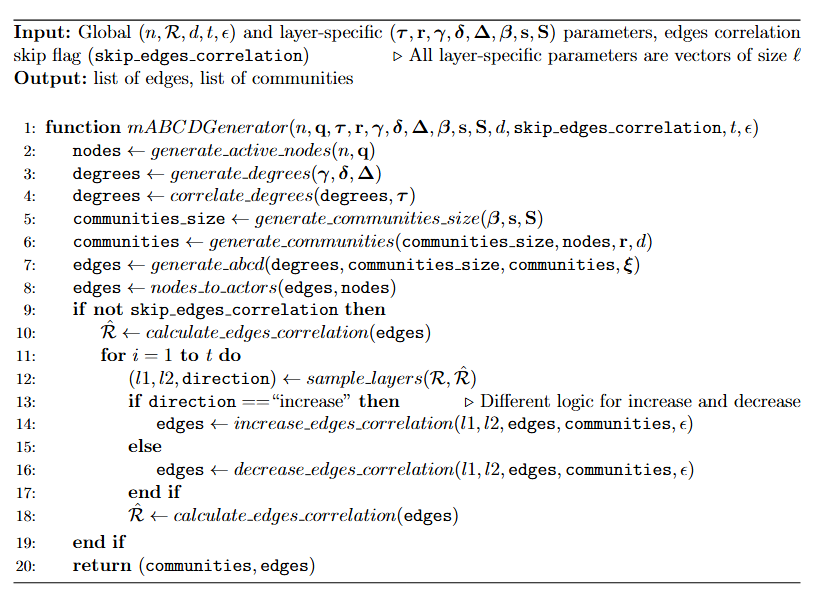
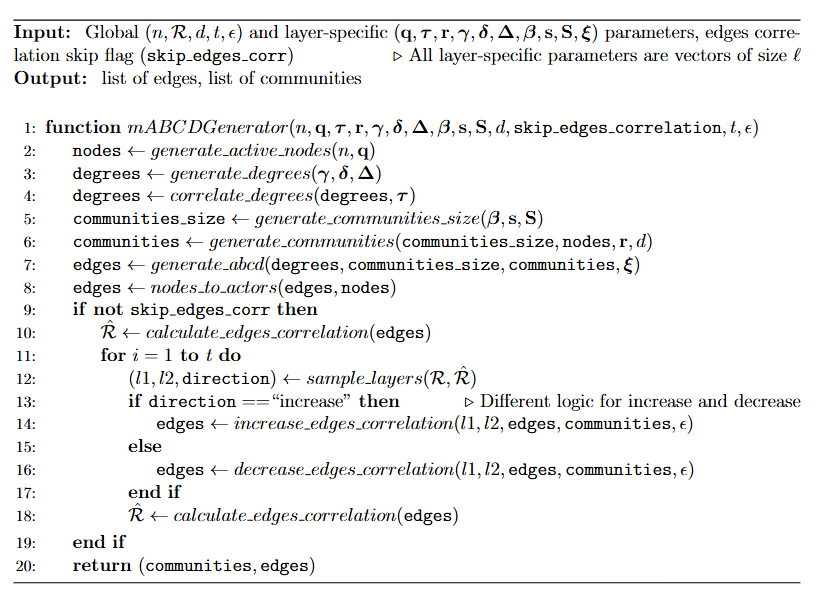
fix: pseudocode

diff --git a/assets/pseudocode.tex b/assets/pseudocode.tex
@@ -9,7 +9,7 @@
 
 \begin{algorithm}
   
-  \textbf{Input:} \ Global ($n,\mathcal{R},d,t,\epsilon$) and layer-specific ($\boldsymbol{\tau},\mathbf{r},\boldsymbol{\gamma},\boldsymbol{\delta},\boldsymbol{\Delta},\boldsymbol{\beta},\mathbf{s},\mathbf{S}$) parameters, edges correlation skip flag ($\texttt{skip\_edges\_correlation}$) \Comment{All layer-specific parameters are vectors of size $\ell$}\\
+  \textbf{Input:} \ Global ($n,\mathcal{R},d,t,\epsilon$) and layer-specific ($\mathbf{q},\boldsymbol{\tau},\mathbf{r},\boldsymbol{\gamma},\boldsymbol{\delta},\boldsymbol{\Delta},\boldsymbol{\beta},\mathbf{s},\mathbf{S},\boldsymbol{\xi}$) parameters, edges correlation skip flag ($\texttt{skip\_edges\_corr}$) \Comment{All layer-specific parameters are vectors of size $\ell$}\\
   \textbf{Output:} \ list of edges, list of communities
   
   \begin{algorithmic}[1]
@@ -24,9 +24,9 @@
         \State $\texttt{communities} \gets generate\_communities(\texttt{communities\_size},\texttt{nodes},\mathbf{r},d)$
         \State $\texttt{edges} \gets generate\_abcd(\texttt{degrees},\texttt{communities\_size},\texttt{communities},\boldsymbol{\xi})$
         \State $\texttt{edges} \gets nodes\_to\_actors(\texttt{edges},\texttt{nodes})$
-        \IfNot{$\texttt{skip\_edges\_correlation}$}
+        \IfNot{$\texttt{skip\_edges\_corr}$}
             \State $\hat{\mathcal{R}} \gets calculate\_edges\_correlation(\texttt{edges})$
-            \For{$i=1 \To t$}
+            \For{$i=1 \textbf{ to } t$}
                 \State $(l1,l2, \texttt{direction}) \gets sample\_layers(\mathcal{R},\hat{\mathcal{R}})$
                 \If{$\texttt{direction} ==$``increase"} \Comment{Different logic for increase and decrease}
                     \State $\texttt{edges} \gets increase\_edges\_correlation(l1,l2,\texttt{edges},\texttt{communities},\epsilon)$
